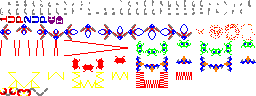
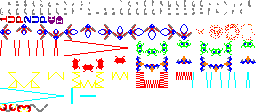
More laser backfeeding graphics.

diff --git a/src/obj/laser.c b/src/obj/laser.c
@@ -71,19 +71,19 @@ void LaserUpdate(u8 i) {
     switch(lasers[i].dir) {
         case WEST:
             lasers[i].y -= lasers[i].backfeed ? -1 : 1;
-            DrawMap(lasers[i].x, lasers[i].y, mapLaserHorizontal[lasers[i].tileIndex]);
+            DrawMap(lasers[i].x, lasers[i].y, lasers[i].backfeed ? mapLaserBackfeedHorizontal[lasers[i].tileIndex] : mapLaserHorizontal[lasers[i].tileIndex]);
             break;
         case EAST:
             lasers[i].y += lasers[i].backfeed ? -1 : 1;
-            DrawMap(lasers[i].x, lasers[i].y, mapLaserHorizontal[lasers[i].tileIndex]);
+            DrawMap(lasers[i].x, lasers[i].y, lasers[i].backfeed ? mapLaserBackfeedHorizontal[lasers[i].tileIndex] : mapLaserHorizontal[lasers[i].tileIndex]);
             break;
         case NORTH:
             lasers[i].x += lasers[i].backfeed ? -1 : 1;
-            DrawMap(lasers[i].x, lasers[i].y, mapLaserVertical[lasers[i].tileIndex]);
+            DrawMap(lasers[i].x, lasers[i].y, lasers[i].backfeed ? mapLaserBackfeedVertical[lasers[i].tileIndex]: mapLaserVertical[lasers[i].tileIndex]);
             break;
         default:
             lasers[i].x -= lasers[i].backfeed ? -1 : 1;
-            DrawMap(lasers[i].x, lasers[i].y, mapLaserVertical[lasers[i].tileIndex]);
+            DrawMap(lasers[i].x, lasers[i].y, lasers[i].backfeed ? mapLaserBackfeedVertical[lasers[i].tileIndex]: mapLaserVertical[lasers[i].tileIndex]);
     }
 }
 

diff --git a/src/system/graphics.h b/src/system/graphics.h
@@ -84,6 +84,27 @@ extern const char mapSparxWestC[];
 extern const char mapSparxNorthC[];
 extern const char mapSparxEastC[];
 
+extern const char mapLaserBackfeedHorizontalA[];
+extern const char mapLaserBackfeedHorizontalB[];
+extern const char mapLaserBackfeedHorizontalC[];
+extern const char mapLaserBackfeedHorizontalD[];
+extern const char mapLaserBackfeedHorizontalE[];
+extern const char mapLaserBackfeedHorizontalF[];
+extern const char mapLaserBackfeedHorizontalG[];
+extern const char mapLaserBackfeedHorizontalH[];
+
+extern const char mapLaserBackfeedVerticalA[];
+extern const char mapLaserBackfeedVerticalB[];
+extern const char mapLaserBackfeedVerticalC[];
+extern const char mapLaserBackfeedVerticalD[];
+extern const char mapLaserBackfeedVerticalE[];
+extern const char mapLaserBackfeedVerticalF[];
+extern const char mapLaserBackfeedVerticalG[];
+extern const char mapLaserBackfeedVerticalH[];
+
+extern const char mapEnemyLaserVertical[];
+extern const char mapEnemyLaserHorizontal[];
+
 extern const char mapHookNE[];
 extern const char mapHookSE[];
 extern const char mapHookSW[];
@@ -100,6 +121,8 @@ extern const char *mapFighterKill[];
 
 extern const char *mapLaserVertical[];
 extern const char *mapLaserHorizontal[];
+extern const char *mapLaserBackfeedVertical[];
+extern const char *mapLaserBackfeedHorizontal[];
 
 extern const char *mapInvaderA[];
 extern const char *mapInvaderB[];

diff --git a/src/system/graphics.c b/src/system/graphics.c
@@ -36,6 +36,20 @@ const char *mapLaserHorizontal[] = {
     mapLaserHorizontalG, mapLaserHorizontalH
 };
 
+const char *mapLaserBackfeedVertical[] = {
+    mapLaserBackfeedVerticalA, mapLaserBackfeedVerticalB,
+    mapLaserBackfeedVerticalC, mapLaserBackfeedVerticalD,
+    mapLaserBackfeedVerticalE, mapLaserBackfeedVerticalF,
+    mapLaserBackfeedVerticalG, mapLaserBackfeedVerticalH
+};
+
+const char *mapLaserBackfeedHorizontal[] = {
+    mapLaserBackfeedHorizontalA, mapLaserBackfeedHorizontalB,
+    mapLaserBackfeedHorizontalC, mapLaserBackfeedHorizontalD,
+    mapLaserBackfeedHorizontalE, mapLaserBackfeedHorizontalF,
+    mapLaserBackfeedHorizontalG, mapLaserBackfeedHorizontalH
+};
+
 const char *mapInvaderA[] = {
     mapInvaderSouthA, mapInvaderWestA,
     mapInvaderNorthA, mapInvaderEastA
